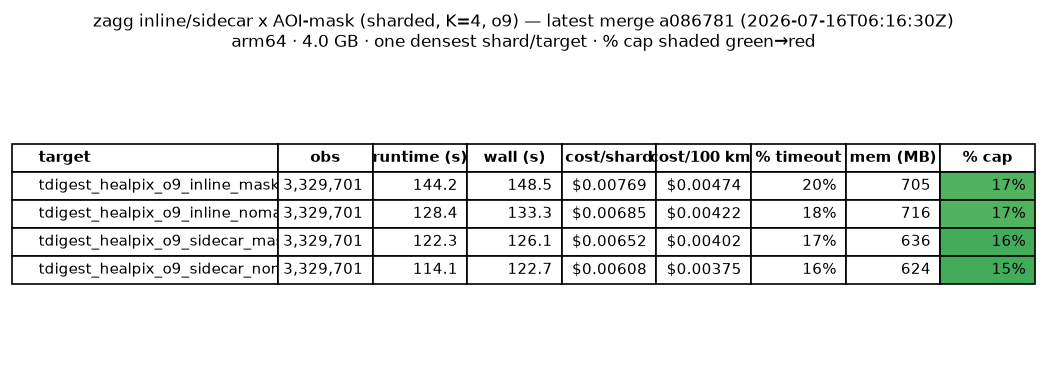
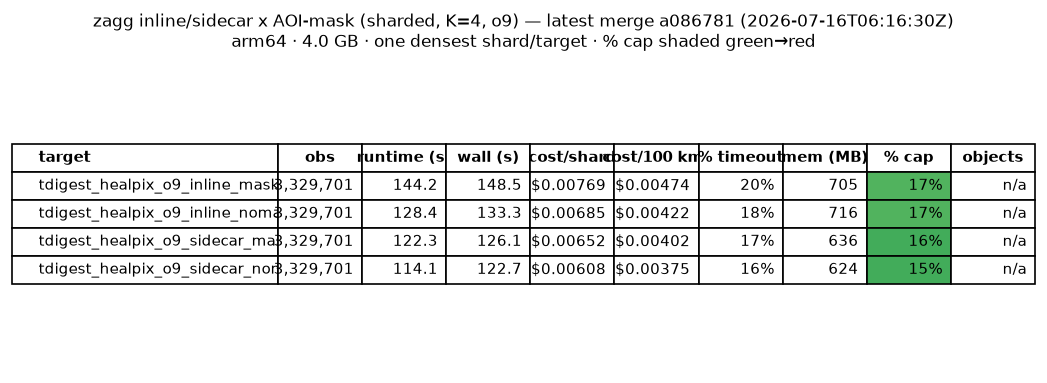
full-aoi benchmark: 0.31.0

Changed region(s): [[0.2445, 0.3734, 1.0, 0.7467]]

diff --git a/site/index.html b/site/index.html
@@ -13,6 +13,13 @@
 <h2>cost_per_100km2 (inline/sidecar × AOI-mask)</h2>
 <img src="cost_per_100km2_matrix.png" alt="cost_per_100km2_matrix">
 <hr>
+<h2>Per-release full-AOI NEON (all shards)</h2>
+<p>The whole AOP_NEON box fanned over every shard, recorded per release for dollar-cost truth (release tag on the x-axis) — the complement to the per-merge single-densest-shard matrix above.</p>
+<h3>whole-AOI cost (USD)</h3>
+<img src="full_aoi_cost_total.png" alt="full_aoi_cost_total">
+<h3>AOI-avg cost / 100 km² (USD)</h3>
+<img src="full_aoi_cost_per_100km2.png" alt="full_aoi_cost_per_100km2">
+<hr>
 <h2>Archived (frozen as of issues #193 / #202)</h2>
 <p>The pre-#193 codec (sharded/inner) + historical series and the pre-#202 o10 read-backend rows, retained but no longer updated.</p>
 <h3>Sharded vs inner-chunk (archived)</h3>

diff --git a/site/latest.md b/site/latest.md
@@ -2,11 +2,11 @@
 
 _2026-07-16T06:16:30Z · arm64 · 4.0 GB · $1.33334e-05/GB-s · one densest shard/target · retained merge point._
 
-| target | obs | runtime (s) | wall (s) | cost/shard | cost/100 km² | % timeout | mem (MB) | % cap |
-| --- | ---: | ---: | ---: | ---: | ---: | ---: | ---: | ---: |
-| tdigest_healpix_o9_inline_mask | 3,329,701 | 144.2 | 148.5 | $0.00769 | $0.00474 | 20% | 705 | 17% |
-| tdigest_healpix_o9_inline_nomask | 3,329,701 | 128.4 | 133.3 | $0.00685 | $0.00422 | 18% | 716 | 17% |
-| tdigest_healpix_o9_sidecar_mask | 3,329,701 | 122.3 | 126.1 | $0.00652 | $0.00402 | 17% | 636 | 16% |
-| tdigest_healpix_o9_sidecar_nomask | 3,329,701 | 114.1 | 122.7 | $0.00608 | $0.00375 | 16% | 624 | 15% |
+| target | obs | runtime (s) | wall (s) | cost/shard | cost/100 km² | % timeout | mem (MB) | % cap | objects |
+| --- | ---: | ---: | ---: | ---: | ---: | ---: | ---: | ---: | ---: |
+| tdigest_healpix_o9_inline_mask | 3,329,701 | 144.2 | 148.5 | $0.00769 | $0.00474 | 20% | 705 | 17% | n/a |
+| tdigest_healpix_o9_inline_nomask | 3,329,701 | 128.4 | 133.3 | $0.00685 | $0.00422 | 18% | 716 | 17% | n/a |
+| tdigest_healpix_o9_sidecar_mask | 3,329,701 | 122.3 | 126.1 | $0.00652 | $0.00402 | 17% | 636 | 16% | n/a |
+| tdigest_healpix_o9_sidecar_nomask | 3,329,701 | 114.1 | 122.7 | $0.00608 | $0.00375 | 16% | 624 | 15% | n/a |
 
 Machine-readable companion: `metrics.json` (same directory).
